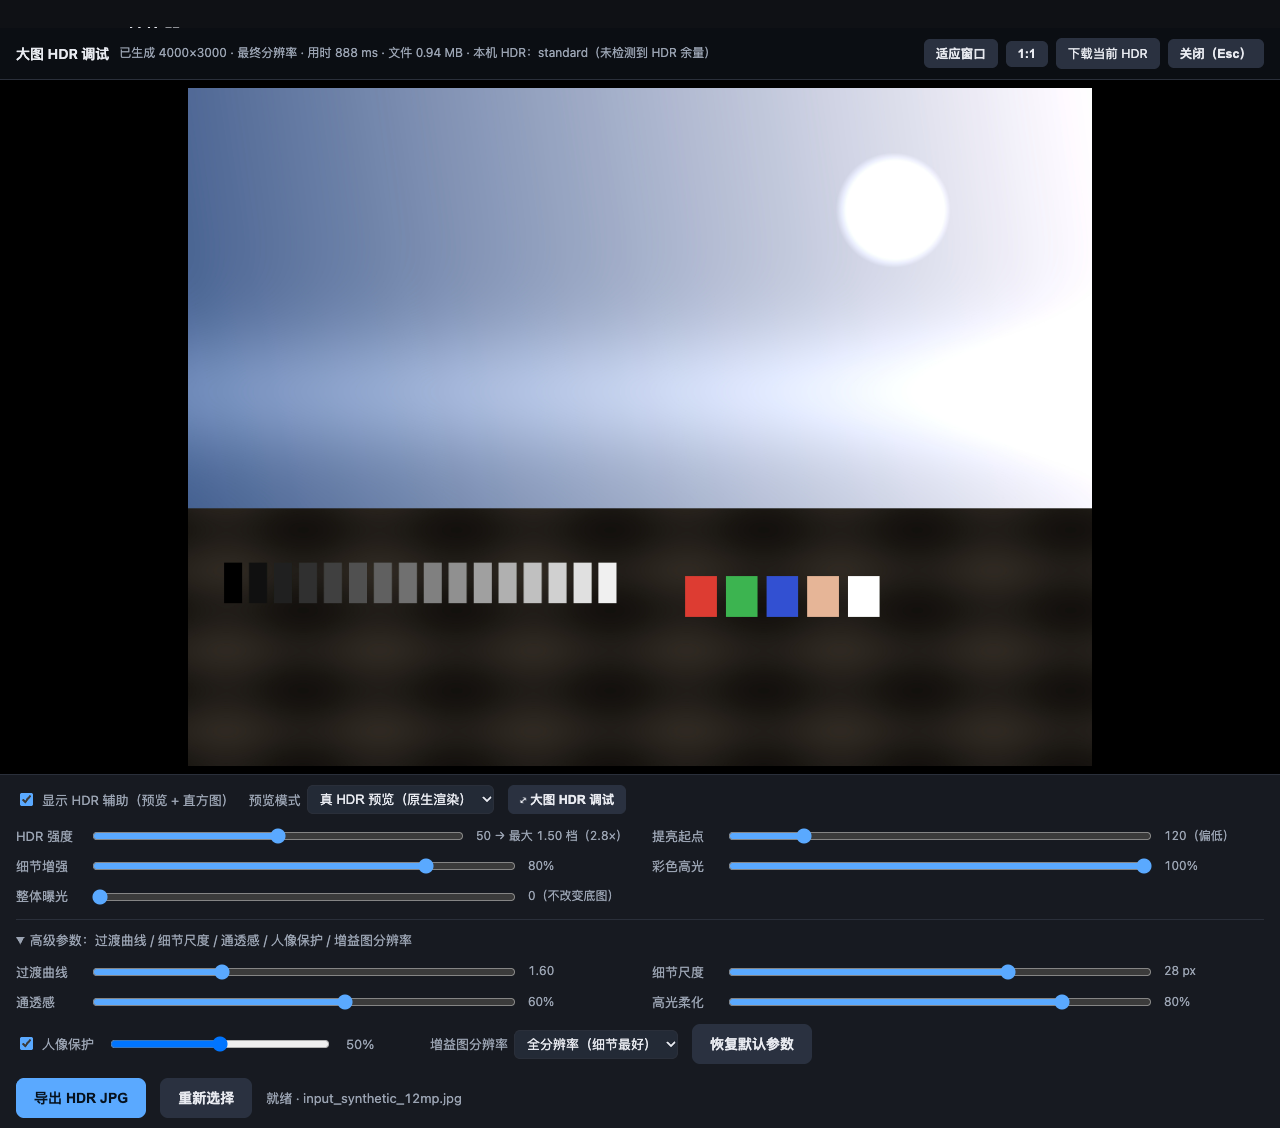
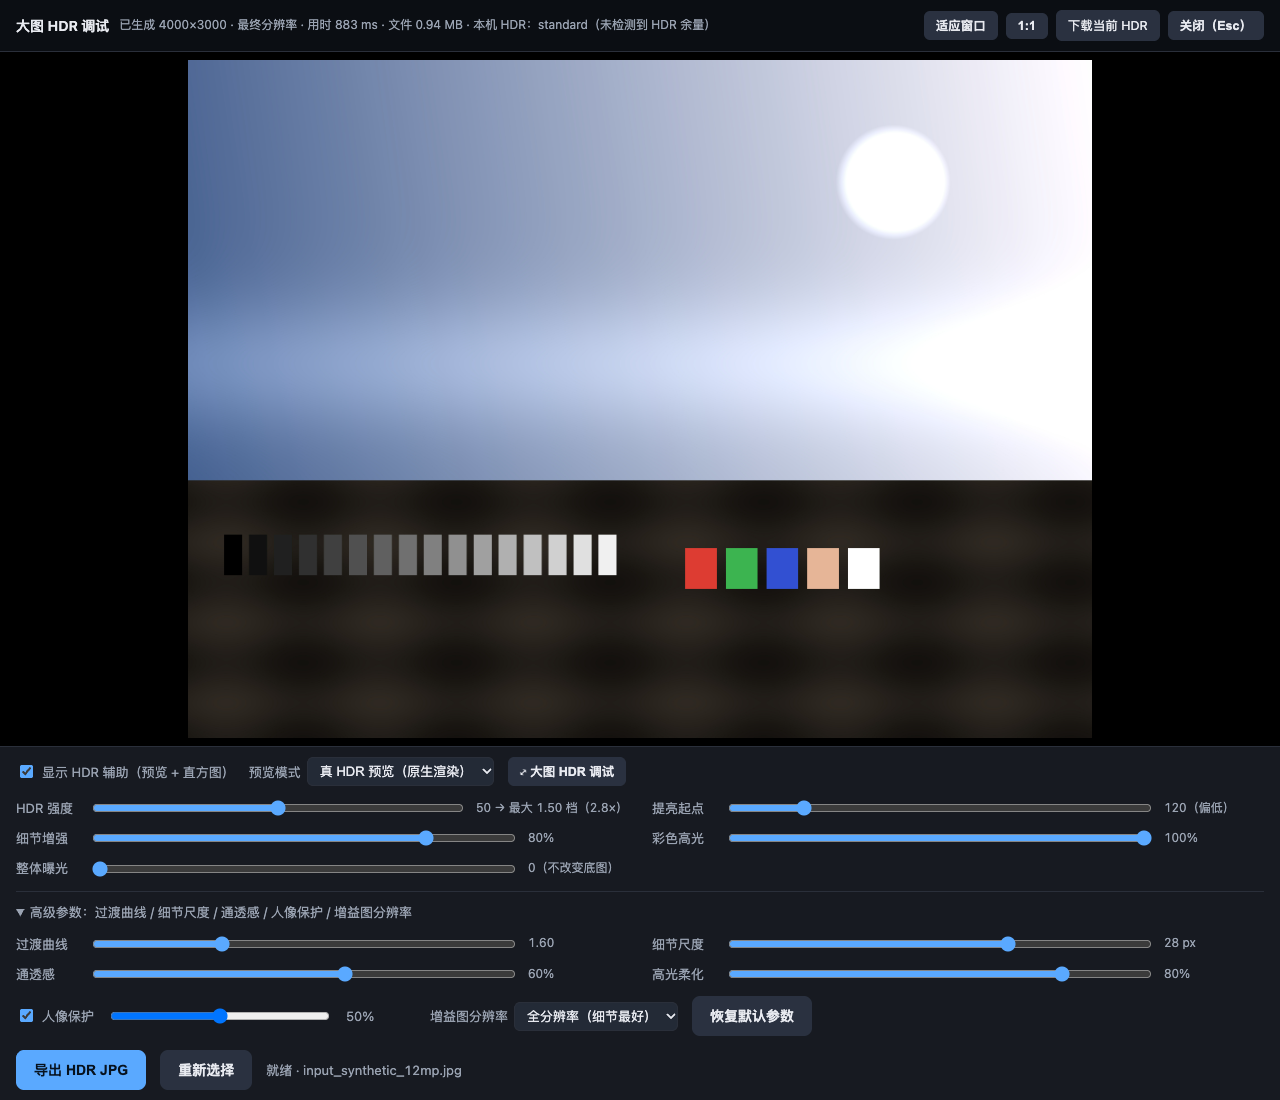
feat(ui): v0.8 Lightroom-style layout
- Large preview viewer on the left, histogram + parameter sidebar on the right
- Full-viewport desktop workspace with independently scrolling panels
- Sticky export bar at the bottom of the sidebar
- Responsive: stacks vertically below 900px (mobile usable)
- Export result shown as a floating card with a close button
- Bump version to v0.8, update changelog and screenshots

diff --git a/index.html b/index.html
@@ -3,22 +3,68 @@
 <head>
 <meta charset="utf-8">
 <meta name="viewport" content="width=device-width, initial-scale=1">
-<title>SDR → HDR 转换器（本地网页版）v0.7</title>
+<title>SDR → HDR 转换器（本地网页版）v0.8</title>
 <style>
   :root {
     --bg: #0f1115; --panel: #171a21; --line: #2a2f3a; --fg: #e8eaf0;
     --muted: #9aa3b2; --accent: #5aa9ff; --warn: #ffb454; --ok: #58d68d;
   }
   * { box-sizing: border-box; }
+  html, body { height: 100%; }
   body {
     margin: 0; background: var(--bg); color: var(--fg);
     font: 14px/1.55 -apple-system, BlinkMacSystemFont, "Segoe UI", "PingFang SC", sans-serif;
+    display: flex; flex-direction: column; overflow: hidden;
   }
-  header { padding: 22px 24px 14px; border-bottom: 1px solid var(--line); }
+  header { padding: 12px 20px 10px; border-bottom: 1px solid var(--line); flex: none; }
   h1 { font-size: 18px; margin: 0 0 6px; font-weight: 600; }
   header p { margin: 0; color: var(--muted); font-size: 13px; max-width: 920px; }
   .ver-note { color: #7f8a9b; font-size: 12px; margin: -2px 0 8px; }
-  main { padding: 20px 24px 60px; max-width: 1180px; margin: 0 auto; }
+  main { padding: 12px 20px 14px; max-width: none; width: 100%; margin: 0;
+         flex: 1 1 auto; min-height: 0; display: flex; flex-direction: column; }
+
+  /* ===== Lightroom 风格：左侧大图 + 右侧参数栏 ===== */
+  #editor { flex: 1 1 auto; min-height: 0; }
+  .app-shell {
+    display: grid;
+    grid-template-columns: minmax(0, 1fr) 388px;
+    gap: 16px;
+    align-items: stretch;
+    height: 100%;
+  }
+  .viewer { min-width: 0; height: 100%; overflow: auto; scrollbar-width: thin; }
+  .side-panel {
+    height: 100%;
+    overflow-y: auto;
+    overscroll-behavior: contain;
+    scrollbar-width: thin;
+    padding-right: 4px;
+  }
+  .side-panel::-webkit-scrollbar { width: 8px; }
+  .side-panel::-webkit-scrollbar-thumb { background: #2f3644; border-radius: 4px; }
+  .drop { flex: none; margin-bottom: 12px; }
+  .side-panel .controls { margin-top: 12px; }
+  .side-panel .hist-fig { margin-top: 0; }
+  .side-title {
+    color: var(--muted); font-size: 11.5px; letter-spacing: .08em;
+    text-transform: uppercase; margin: 0 0 2px;
+  }
+  @media (max-width: 1180px) {
+    .app-shell { grid-template-columns: minmax(0, 1fr) 344px; }
+  }
+  @media (max-width: 900px) {
+    html, body { height: auto; }
+    body { display: block; overflow: auto; }
+    header { padding: 14px 16px 10px; }
+    main { display: block; padding: 12px 14px 40px; }
+    #editor { display: block; }
+    .app-shell { grid-template-columns: 1fr; height: auto; align-items: start; }
+    .viewer { height: auto; overflow: visible; }
+    .previews { min-height: 0; }
+    .side-panel { height: auto; max-height: none; overflow: visible; padding-right: 0; }
+    .side-panel .controls { margin-top: 14px; }
+    .side-panel .action-bar { position: static; margin: 14px 0 0; padding: 0; border: 0; }
+  }
   .drop {
     border: 2px dashed #3a4150; border-radius: 12px; padding: 38px 20px;
     text-align: center; cursor: pointer; transition: .15s; background: var(--panel);
@@ -26,20 +72,40 @@
   .drop.hover, .drop:focus { border-color: var(--accent); background: #1a2130; outline: none; }
   .drop strong { display: block; font-size: 15px; margin-bottom: 6px; }
   .drop span { color: var(--muted); font-size: 13px; }
-  .previews { display: grid; grid-template-columns: 1fr 1fr; gap: 14px; margin-top: 18px; }
+  .drop.compact { padding: 10px 16px; margin-bottom: 12px; }
+  .drop.compact strong { font-size: 13px; margin-bottom: 0; }
+  .drop.compact span { display: none; }
+  .previews { display: grid; grid-template-columns: 1fr 1fr; gap: 12px; margin-top: 0; background: #0b0d11;
+    border: 1px solid var(--line); border-radius: 12px; padding: 12px;
+    min-height: 100%; align-content: center; }
   .previews.single { grid-template-columns: 1fr; }
   .previews.single #figHdr { display: none; }
-  @media (max-width: 820px) { .previews { grid-template-columns: 1fr; } }
+  @media (max-width: 760px) { .previews { grid-template-columns: 1fr; } }
   figure { margin: 0; background: var(--panel); border: 1px solid var(--line); border-radius: 10px; overflow: hidden; }
-  figure canvas { display: block; width: 100%; height: auto; background: #000; }
+  figure canvas { display: block; width: 100%; height: auto; max-height: 74vh; object-fit: contain; background: #000; }
   figcaption { padding: 8px 12px; font-size: 12px; color: var(--muted); border-top: 1px solid var(--line); }
   figure img { display: block; width: 100%; height: auto; background: #000; }
   .hdr-link { padding: 4px 12px 10px; }
   .hdr-link a { color: var(--accent); font-size: 12px; text-decoration: none; }
   .hdr-link a:hover { text-decoration: underline; }
   .hist-fig { margin-top: 14px; }
-  .hist-fig canvas { height: 156px; }
+  .hist-fig canvas { height: 132px; }
   .controls { margin-top: 16px; background: var(--panel); border: 1px solid var(--line); border-radius: 10px; padding: 14px 16px; }
+  /* 参数栏窄，滑块改为两行式（标签+数值一行，滑块独立一行） */
+  .side-panel .ctl-grid { grid-template-columns: 1fr; gap: 12px; margin-top: 10px; }
+  .side-panel .ctl { display: grid; grid-template-columns: 1fr auto; grid-template-areas: "label val" "slider slider"; align-items: center; gap: 2px 10px; }
+  .side-panel .ctl label { grid-area: label; min-width: 0; }
+  .side-panel .ctl input[type=range] { grid-area: slider; width: 100%; }
+  .side-panel .ctl .val { grid-area: val; min-width: 0; text-align: right; }
+  @media (max-width: 900px) {
+    .side-panel .ctl-grid { grid-template-columns: 1fr 1fr; }
+    .side-panel .ctl { display: flex; flex-wrap: wrap; }
+    .side-panel .ctl label { min-width: 64px; }
+    .side-panel .ctl .val { min-width: 100px; text-align: left; }
+  }
+  @media (max-width: 600px) {
+    .side-panel .ctl-grid { grid-template-columns: 1fr; }
+  }
   .ctl-row { display: flex; align-items: center; gap: 14px; flex-wrap: wrap; }
   .ctl-grid { display: grid; grid-template-columns: 1fr 1fr; gap: 10px 24px; margin-top: 12px; }
   @media (max-width: 820px) { .ctl-grid { grid-template-columns: 1fr; } }
@@ -55,6 +121,14 @@
   button:disabled { opacity: .45; cursor: default; }
   button.secondary { background: #2a3140; color: var(--fg); }
   details { margin-top: 12px; border-top: 1px solid var(--line); padding-top: 10px; }
+  .side-panel .ctl-row { gap: 10px; }
+  .side-panel .action-bar {
+    position: sticky; bottom: -14px; z-index: 3;
+    background: var(--panel); border-top: 1px solid var(--line);
+    margin: 14px -16px 0; padding: 10px 16px;
+  }
+  .big-dock .action-bar { position: static; margin: 14px 0 0; padding: 0; border: 0; }
+  .side-panel .ctl-row .chk, .side-panel .ctl-row .sel { font-size: 12.5px; }
   summary { cursor: pointer; color: var(--muted); font-size: 13px; user-select: none; }
   .meta { margin-top: 14px; color: var(--muted); font-size: 12.5px; }
   .meta b { color: var(--fg); font-weight: 600; }
@@ -82,8 +156,20 @@
   .big-stage.actual img { max-width: none; max-height: none; }
   .big-dock { max-height: 42vh; overflow: auto; border-top: 1px solid var(--line); background: var(--panel); }
   .big-dock .controls { margin: 0; border: 0; border-radius: 0; }
+  .big-dock .ctl-grid { grid-template-columns: 1fr 1fr !important; }
+  .big-dock .ctl { display: flex !important; flex-wrap: wrap; }
+  .big-dock .ctl label { min-width: 64px; }
+  .big-dock .ctl .val { min-width: 100px; text-align: left; }
   .big-dock .meta, .big-dock .note { display: none; }
   .big-dock .controls { padding: 10px 16px; }
+  #result {
+    position: fixed; left: 50%; bottom: 18px; transform: translateX(-50%);
+    z-index: 900; width: min(720px, calc(100vw - 32px)); max-height: 52vh; overflow: auto;
+    background: var(--panel); border: 1px solid var(--line); border-radius: 12px;
+    padding: 14px 16px; box-shadow: 0 16px 48px rgba(0, 0, 0, .55);
+  }
+  .result-head { display: flex; align-items: center; justify-content: space-between; gap: 12px; }
+  .result-head .note { margin: 0; flex: 1; }
   .busy { opacity: .6; pointer-events: none; }
   ol.steps { margin: 10px 0 0; padding-left: 20px; color: var(--muted); font-size: 12.5px; }
   ol.steps li { margin: 3px 0; }
@@ -92,8 +178,8 @@
 </head>
 <body>
 <header>
-  <h1>SDR → HDR 转换器 <span style="color:var(--muted);font-weight:400;font-size:13px">v0.7 · 本地处理，不上传</span></h1>
-  <div class="ver-note">v0.7 更新：新增 PNG 输入（自动转 JPEG 底图；透明区域铺白、16-bit 降为 8-bit）</div>
+  <h1>SDR → HDR 转换器 <span style="color:var(--muted);font-weight:400;font-size:13px">v0.8 · 本地处理，不上传</span></h1>
+  <div class="ver-note">v0.8 更新：界面改为 Lightroom 风格——右侧参数面板 + 左侧大图预览；窄屏自动切换为上下布局</div>
   <p>把普通 SDR JPG / PNG 转成带增益图（gain map）的 HDR JPG：<b>HDR 屏上</b>高光更亮、画面更通透；
      <b>普通屏 / 旧软件</b>显示和原图完全一样。原图字节（含 EXIF/ICC）原样保留，全程在浏览器本地处理。</p>
 </header>
@@ -105,6 +191,8 @@
   <input type="file" id="file" accept="image/jpeg,image/png" class="hidden">
 
   <section id="editor" class="hidden">
+    <div class="app-shell">
+    <section class="viewer">
     <div class="previews" id="previews">
       <figure id="figSdr">
         <canvas id="cvSdr"></canvas>
@@ -120,13 +208,17 @@
         <div class="fig-hint">点击画面 → 大图 HDR 调试（按当前参数与最终导出分辨率实时生成）</div>
       </figure>
     </div>
+    </section>
 
-    <figure class="hist-fig" id="histFig">
-      <canvas id="hist"></canvas>
-      <figcaption id="histCaption">SDR / HDR 直方图 —— 白点左侧为 SDR 影调，右侧为 HDR 提亮区（宽度按曝光档数比例）</figcaption>
-    </figure>
+    <aside class="side-panel" id="sidePanel">
+      <div class="side-title">直方图</div>
+      <figure class="hist-fig" id="histFig">
+        <canvas id="hist"></canvas>
+        <figcaption id="histCaption">SDR / HDR 直方图 —— 白点左侧为 SDR 影调，右侧为 HDR 提亮区（宽度按曝光档数比例）</figcaption>
+      </figure>
 
-    <div class="controls">
+      <div class="side-title" style="margin-top:14px">参数</div>
+      <div class="controls">
       <div class="ctl-row">
         <label class="chk"><input type="checkbox" id="showAssist" checked> 显示 HDR 辅助（预览 + 直方图）</label>
         <label class="sel">预览模式
@@ -170,7 +262,7 @@
         </div>
       </details>
 
-      <div class="ctl-row" style="margin-top:14px">
+      <div class="ctl-row action-bar">
         <button id="exportBtn" disabled>导出 HDR JPG</button>
         <button id="resetBtn" class="secondary" disabled>重新选择</button>
         <span class="val" id="status"></span>
@@ -179,11 +271,16 @@
       <div class="note" id="note">
         提示：导出的文件在不支持 HDR 的显示环境里和原图看起来一样，这是正常现象；只有 HDR 屏 + 支持的浏览器/相册才会显示更亮的高光。
       </div>
+      </div>
+    </aside>
     </div>
   </section>
 
   <section id="result" class="hidden">
-    <div class="note ok" id="resultText"></div>
+    <div class="result-head">
+      <div class="note ok" id="resultText"></div>
+      <button id="resultClose" class="secondary sm">关闭</button>
+    </div>
     <ol class="steps">
       <li>先把文件用 AirDrop / 文件 App / 数据线传到手机或 HDR 电脑上；</li>
       <li>iPhone/iPad：存到「照片」或直接在 Safari 打开（iOS 18+ 支持 gain map HDR JPG）；</li>
@@ -1000,6 +1097,7 @@ const els = {
   editor: document.getElementById("editor"),
   result: document.getElementById("result"),
   resultText: document.getElementById("resultText"),
+  resultClose: document.getElementById("resultClose"),
   previews: document.getElementById("previews"),
   figHdr: document.getElementById("figHdr"),
   histFig: document.getElementById("histFig"),
@@ -1333,6 +1431,11 @@ async function loadFile(file) {
 
   els.editor.classList.remove("hidden");
   els.result.classList.add("hidden");
+  if (els.drop) {
+    els.drop.classList.add("compact");
+    const dstrong = els.drop.querySelector("strong");
+    if (dstrong) dstrong.textContent = "拖入 / 点击选择另一张图片";
+  }
   els.exportBtn.disabled = false;
   els.resetBtn.disabled = false;
   els.exportBtn.textContent = "导出 HDR JPG";
@@ -1588,6 +1691,7 @@ function triggerDownload(blob, filename) {
  * 事件绑定
  * ============================================================ */
 function bindUi() {
+  if (els.resultClose) els.resultClose.addEventListener("click", () => els.result.classList.add("hidden"));
   els.drop.addEventListener("click", () => els.file.click());
   els.drop.addEventListener("keydown", (e) => { if (e.key === "Enter" || e.key === " ") els.file.click(); });
   els.file.addEventListener("change", () => loadFile(els.file.files[0]));
@@ -1660,7 +1764,7 @@ function bindUi() {
  * 测试钩子（headless Chrome / 自动化验证）
  * ============================================================ */
 window.__hdrApp = {
-  version: "0.7",
+  version: "0.8",
   defaultParams: DEFAULT_PARAMS,
   async encodeFromArrayBuffer(buffer, paramsOrStrength, gainScaleOpt) {
     let params;

diff --git a/README.md b/README.md
@@ -8,6 +8,7 @@
 - 输出为真实 Ultra HDR JPG（主图 + 增益图 + XMP/MPF 元数据），可在 Chrome / Edge / iOS 18+ / macOS 等支持设备上以 HDR 显示
 - JPG 输入时原始字节完整保留（EXIF/ICC 不动），只是追加增益图
 - 提供 HDR 参数：整体曝光、HDR 强度、提亮起点、细节增强、彩色高光、过渡曲线、细节尺度、通透感、人像保护、增益图分辨率
+- 界面参考 Lightroom：**左侧大图预览 + 右侧直方图/参数面板**，桌面端整屏工作区、参数栏独立滚动；窄屏自动切上下布局
 - 大图 HDR 调试：点击右侧画面进入近全屏视图，直接按"最终导出文件"的尺寸与参数原生渲染
 - 本机 HDR 能力检测（`dynamic-range` 媒体查询），支持"真 HDR 预览"
 
@@ -23,7 +24,7 @@ https://tianqiQWQ.github.io/sdr2hdr-gainmap/
 
 ## 截图
 
-| 主界面 | 大图 HDR 调试 |
+| Lightroom 风格主界面（右侧参数栏） | 大图 HDR 调试 |
 |---|---|
 | ![主界面](assets/screenshots/main.png) | ![大图调试](assets/screenshots/big-view.png) |
 

diff --git a/CHANGELOG.md b/CHANGELOG.md
@@ -2,6 +2,14 @@
 
 本项目的版本更新记录。从 v0.7 起，页面版本号下方会固定显示一行"本次更新"小字（每次发版同步此处）。
 
+## v0.8 — 2026-10
+
+- **界面改为 Lightroom 风格**：左侧大图预览区 + 右侧直方图/参数面板，桌面端整屏工作区、参数栏独立滚动
+- 导出按钮在参数栏底部常驻（sticky），调参时随时可导出；导出结果改为底部悬浮卡片
+- 窄屏（<900px）自动切换为上下布局：图片在上、直方图与参数在下，移动端可正常使用
+- 大图 HDR 调试视图适配新布局（参数面板仍可停靠到底部）
+- 功能无变化（增益图/曝光模式/PNG 输入/校验逻辑保持一致），回归测试全部通过
+
 ## v0.7 — 2026-10
 
 - 新增 **PNG 输入**：自动转 JPEG 底图；透明区域铺白、16-bit 降为 8-bit、不保留 PNG 元数据
